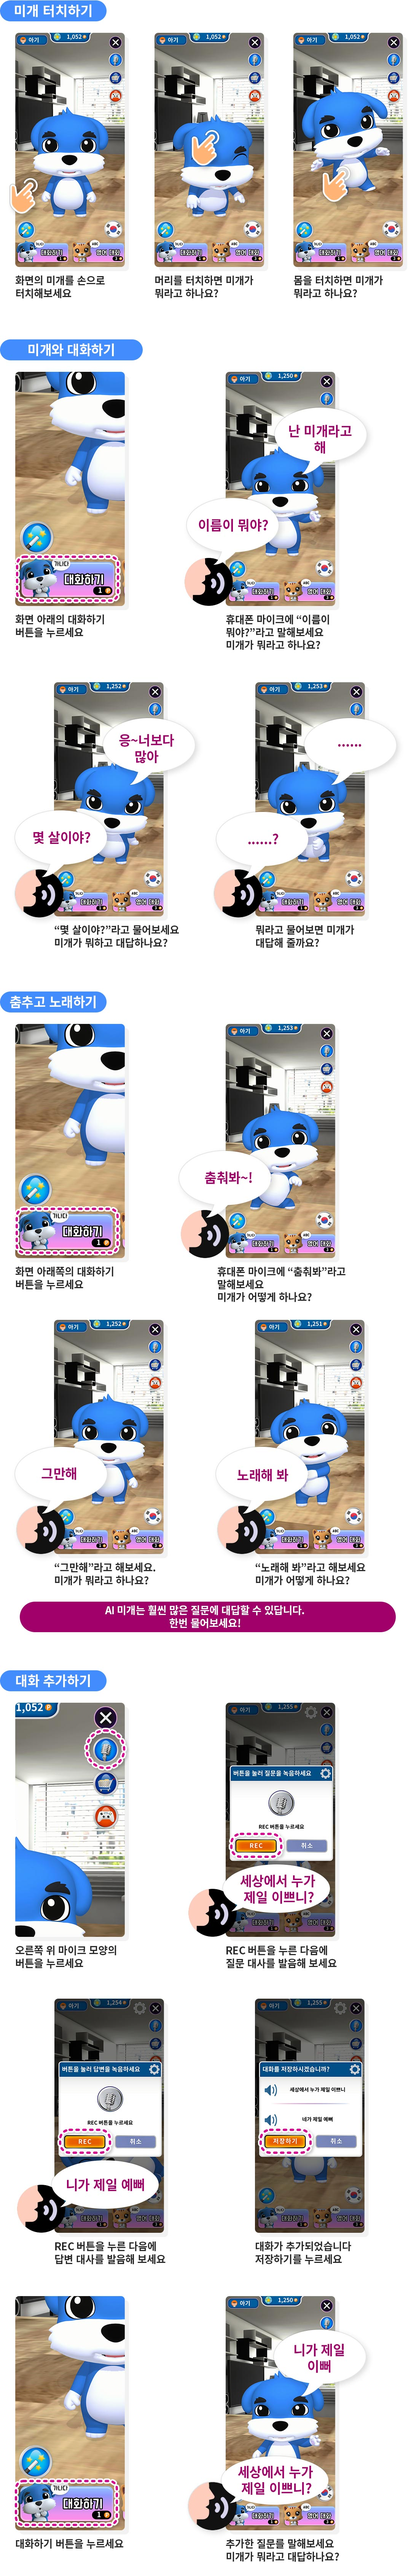
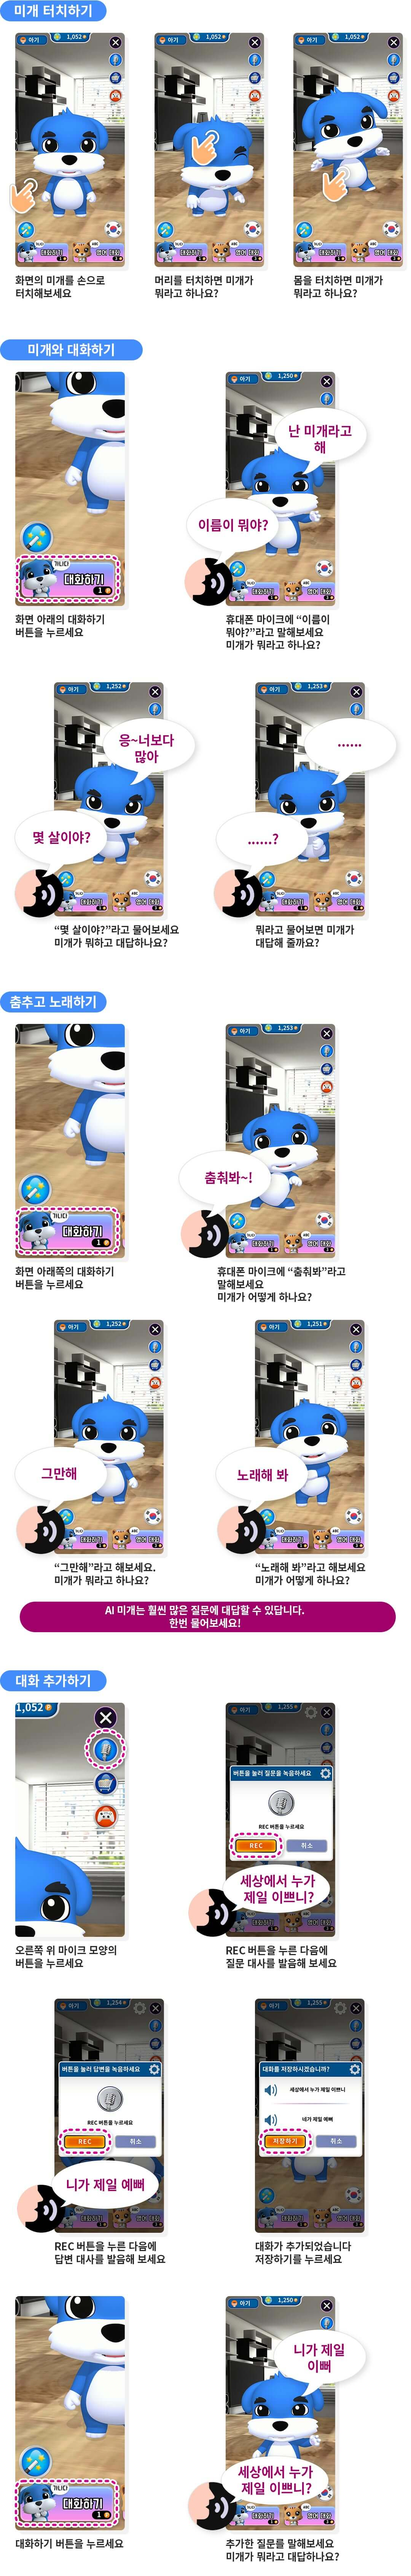
이미지 첫페이지부분만 짤라서 로딩 빠르게 하기

diff --git a/docs/AIMIKE/help.html b/docs/AIMIKE/help.html
@@ -30,7 +30,9 @@
 
 <body>
 	<!-- 01 section -->
-	<img alt="img" src="img/help.jpg" width="100%">
+	<!-- <img alt="img" src="img/help.jpg" width="100%"> -->
+	<img alt="img" src="img/help1.jpg" width="100%">
+	<img alt="img" src="img/help2.jpg" width="100%">
 	<!--
 	<section id="crowdfund" class="parallax" data-overlay-dark="0" data-scroll-index="1">
 		<div class="container">
